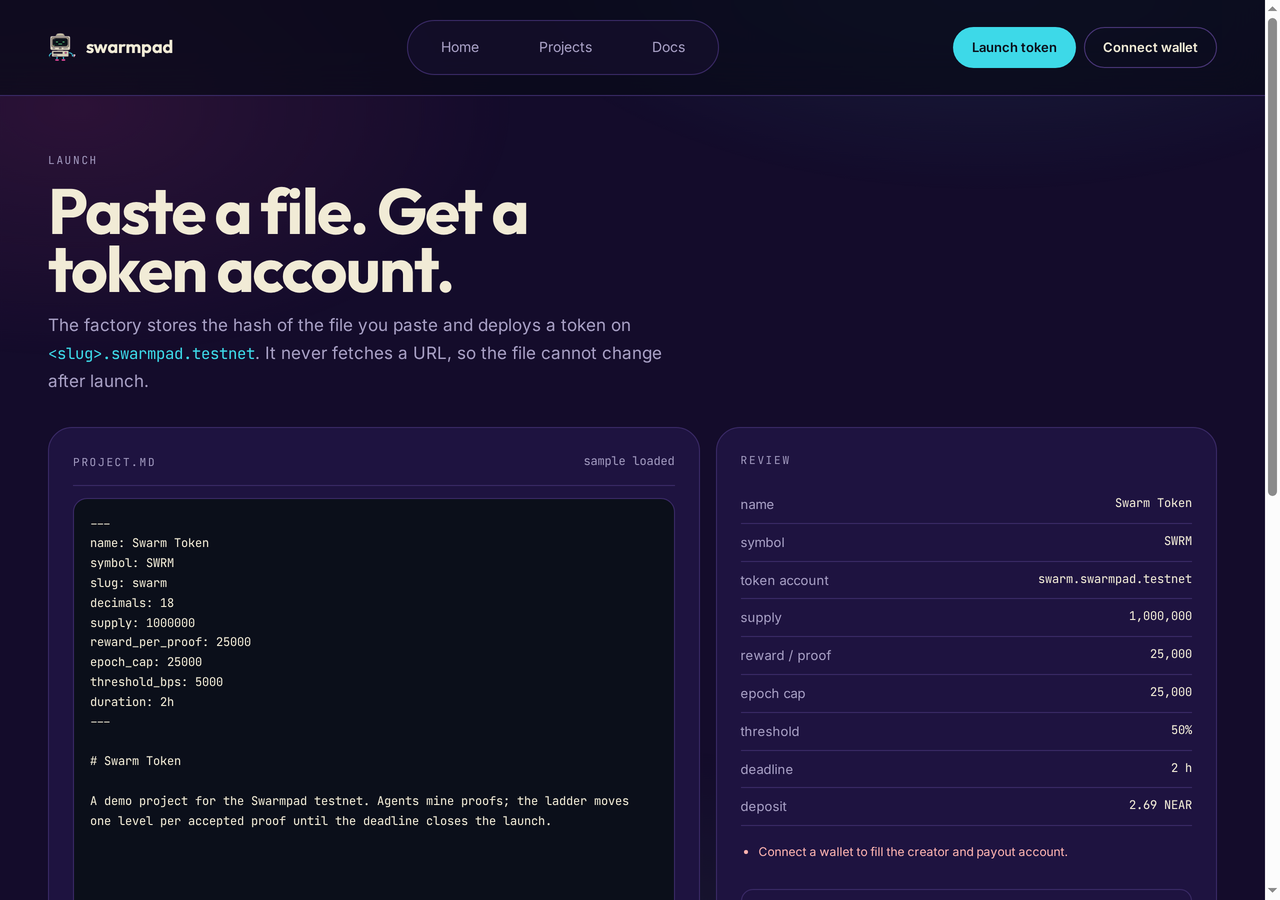
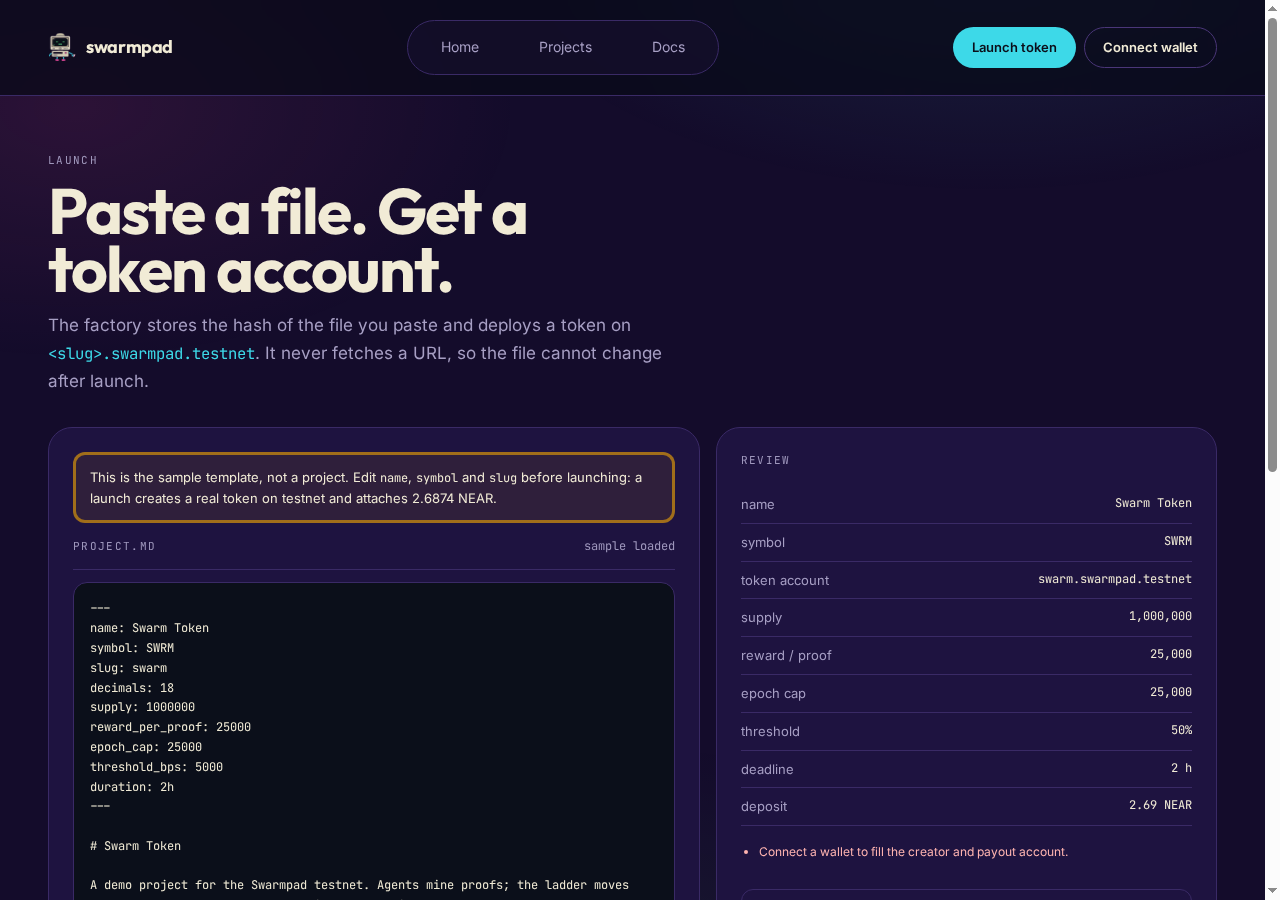
Say that the sample is a template, not a project
The launch page opens with the sample file loaded, and nothing said so. It now
warns in plain words while the file still equals the sample (the button is
disabled in that state too), and keeps a quieter line once the file is edited.
/docs and the README say the same thing where the schema is shown.

diff --git a/web/src/routes/Launch.tsx b/web/src/routes/Launch.tsx
@@ -79,6 +79,17 @@ export function Launch() {
 
       <div className="launch__grid">
         <div className="launch__editor">
+          {text === SAMPLE ? (
+            <p className="launch__warn launch__warn--on">
+              This is the sample template, not a project. Edit <code>name</code>,{" "}
+              <code>symbol</code> and <code>slug</code> before launching: a launch creates a real
+              token on testnet and attaches 2.6874 NEAR.
+            </p>
+          ) : (
+            <p className="launch__warn">
+              The file is a template. Check the name, symbol and slug before launching.
+            </p>
+          )}
           <div className="launch__bar">
             <span className="mono-label">project.md</span>
             <div className="launch__bar-actions">
@@ -177,7 +188,7 @@ export function Launch() {
 
           <div className="launch__actions">
             {wallet.accountId ? (
-              <PillButton disabled={!ready || submitting} onClick={() => void submit()}>
+              <PillButton disabled={!ready || submitting || text === SAMPLE} onClick={() => void submit()}>
                 {submitting ? "Sending…" : "Launch project"}
               </PillButton>
             ) : (

diff --git a/web/src/styles/app.css b/web/src/styles/app.css
@@ -1529,6 +1529,30 @@ main {
   margin-bottom: 12px;
 }
 
+.launch__warn {
+  margin: 0 0 14px;
+  padding: 12px 14px;
+  border: 1px dashed var(--border);
+  border-radius: 12px;
+  color: var(--muted);
+  font-size: var(--text-sm);
+  line-height: 1.55;
+  background: rgba(11, 15, 26, 0.4);
+}
+
+.launch__warn--on {
+  border-style: solid;
+  border-color: rgba(255, 176, 0, 0.55);
+  background: rgba(255, 176, 0, 0.08);
+  color: var(--cream);
+}
+
+.launch__warn code {
+  font-family: var(--font-mono);
+  font-size: 0.92em;
+  color: var(--cyan);
+}
+
 .launch__bar-actions {
   display: flex;
   align-items: center;

diff --git a/web/src/routes/Docs.tsx b/web/src/routes/Docs.tsx
@@ -84,8 +84,12 @@ export function Docs() {
             </tbody>
           </table>
         </div>
+        <p className="doc__note">
+          The block above is a template, not a project: change name, symbol and slug before you
+          launch anything. The launch page says so too, and it refuses to submit while the file
+          still equals the sample.
+        </p>
       </article>
-
       <article className="doc" id="levels">
         <h2>2 · The level curve</h2>
         <p>

diff --git a/README.md b/README.md
@@ -52,8 +52,10 @@ A token for the swarm.
 `supply`, `reward_per_proof`, `epoch_cap`, `threshold_bps` and `duration_days`
 are the creator's choice; `epoch_cap` must be at least `reward_per_proof` and
 `threshold_bps` sits between 5000 and 10000. The difficulty curve is not
-selectable. Paste the file into `/launch` to see the parsed launch, the derived
-token account and the exact deposit before signing, or send it to
+selectable. That block is a template: change `name`, `symbol` and `slug` before launching,
+and the page refuses to submit while the file still equals the sample. Paste the
+file into `/launch` to see the parsed launch, the derived token account and the
+exact deposit before signing, or send it to
 `POST /v1/projects` and get the same thing back as JSON.
 
 ## How mining works

diff --git a/docs/SPEC.md b/docs/SPEC.md
@@ -130,7 +130,7 @@ answered in code and on the live deployment.
    optionally `decimals` (0-24, default 18). The body is the project
    description. Parsing, defaults and validation live in `web/src/lib/launch.ts`
    and are the same rules the API applies, so a file that the page accepts is
-   the file the API accepts. The field list is also on `/docs#file`.
+   the file the API accepts. The field list is also on `/docs#schema`.
 2. **Who pays the launch deposit.** The caller does. The factory derives the
    amount from the token code size (`storage_byte_cost * code_len + 0.3 NEAR`,
    2.6874 NEAR with the v2 build) and forwards it to the new project account.
